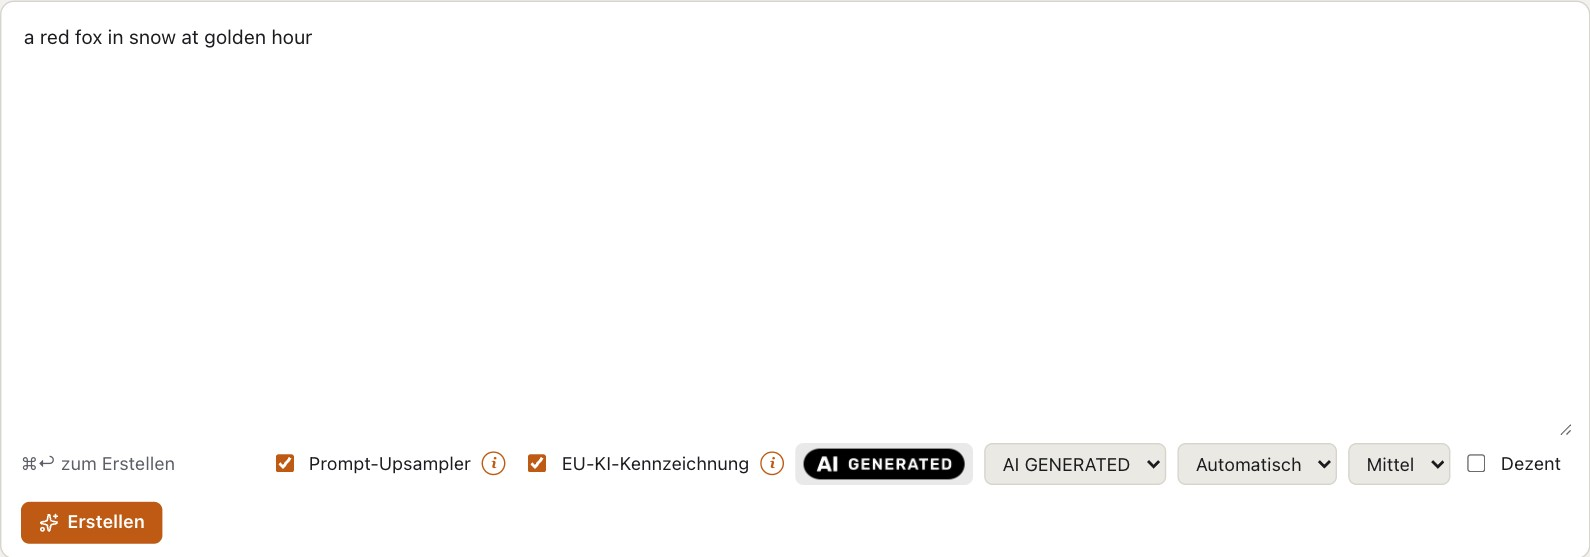
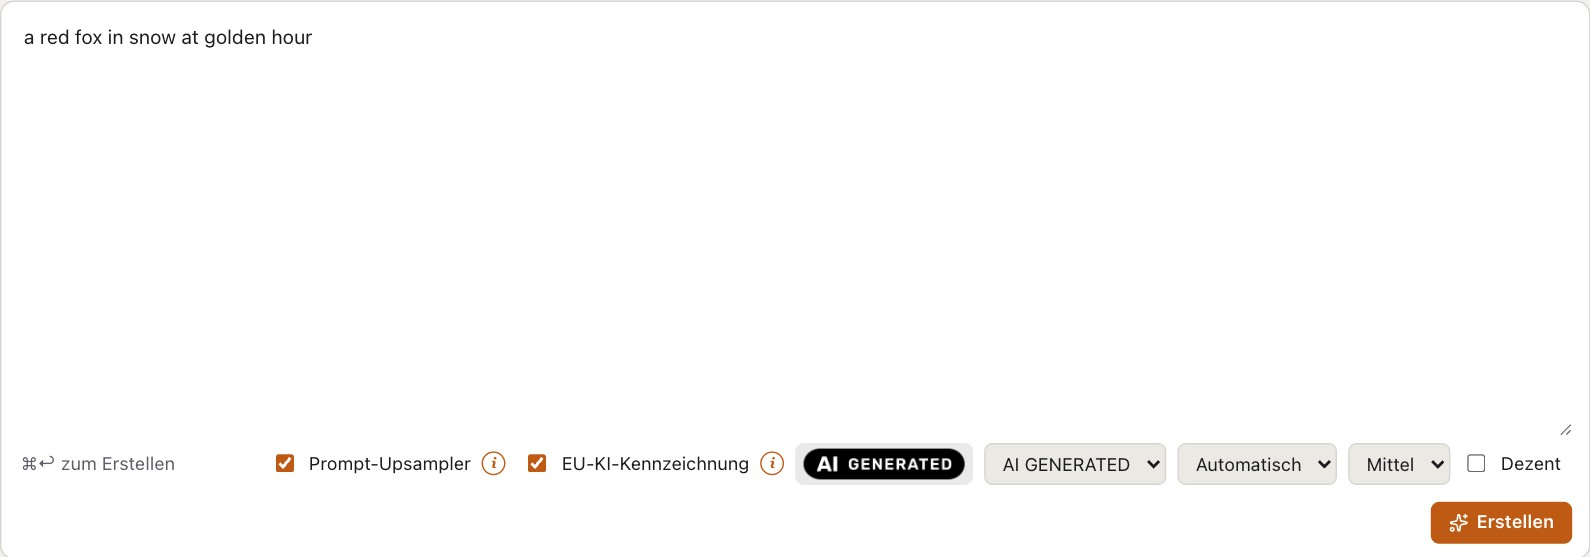
VulKara 0.8.1

Changed region(s): [[0.0, 0.8851, 0.1233, 0.9767], [0.8937, 0.8851, 1.0, 0.9767]]

diff --git a/src/main/menus.ts b/src/main/menus.ts
@@ -1,9 +1,10 @@
 // SPDX-License-Identifier: LicenseRef-PolyForm-Noncommercial-1.0.0
 // Copyright (C) 2026 Oliver Schmidt
 // The app menu beside the Apple menu (About, Settings…, Monitor) and the icon in the menu bar with its own menu. Edit,
-// View and Window come from Electron's roles: without the Edit menu ⌘C and ⌘V stop working in every field.
-// Shared with okAI-helper (LmAI-Studio src/main/menus.ts): the app's own parts come in through MenuHooks; keep both
-// copies of this file the same.
+// View and Window are Electron's role menus written out: without the Edit menu ⌘C and ⌘V stop working in every field.
+// Electron's labels for them are English only; on macOS a role item takes only label and accelerator from us
+// (electronjs.org/docs/latest/tutorial/menus), so the roles keep working under translated labels.
+// okAI-helper has the same menus (LmAI-Studio src/main/menus.ts, texts through its translate() there): change both alike.
 import { app, Menu, nativeImage, Tray, type MenuItemConstructorOptions } from 'electron'
 import { join } from 'node:path'
 
@@ -18,6 +19,13 @@ export interface MenuTexts {
   showAll: string
   quit: string
   open: string
+  /** Edit, View and Window and their entries by role (undo, copy, zoomIn …); missing ones keep Electron's English */
+  edit?: string
+  view?: string
+  window?: string
+  substitutions?: string
+  speech?: string
+  roles?: Partial<Record<string, string>>
 }
 
 export interface MenuHooks {
@@ -28,10 +36,15 @@ export interface MenuHooks {
   openMonitor: () => void
   /** the app's own lines of the menu bar menu (what runs now), built anew at each click */
   status: () => MenuItemConstructorOptions[]
+  /** Reload and the developer tools in the View menu (development only: a reload drops what is typed or painted) */
+  devTools?: boolean
 }
 
 export function appMenuTemplate(h: MenuHooks): MenuItemConstructorOptions[] {
   const t = h.texts()
+  type Role = NonNullable<MenuItemConstructorOptions['role']>
+  const r = (role: Role): MenuItemConstructorOptions => (t.roles?.[role] ? { role, label: t.roles[role] } : { role })
+  const sep: MenuItemConstructorOptions = { type: 'separator' }
   return [
     {
       label: h.name,
@@ -50,9 +63,22 @@ export function appMenuTemplate(h: MenuHooks): MenuItemConstructorOptions[] {
         { label: t.quit, role: 'quit' },
       ],
     },
-    { role: 'editMenu' },
-    { role: 'viewMenu' },
-    { role: 'windowMenu' },
+    // the same entries as Electron's editMenu, viewMenu and windowMenu (lib/browser/api/menu-item-roles.ts, macOS)
+    {
+      role: 'editMenu', label: t.edit ?? 'Edit', submenu: [
+        r('undo'), r('redo'), sep, r('cut'), r('copy'), r('paste'), r('pasteAndMatchStyle'), r('delete'), r('selectAll'), sep,
+        { label: t.substitutions ?? 'Substitutions', submenu: [r('showSubstitutions'), sep, r('toggleSmartQuotes'), r('toggleSmartDashes'), r('toggleTextReplacement')] },
+        { label: t.speech ?? 'Speech', submenu: [r('startSpeaking'), r('stopSpeaking')] },
+      ],
+    },
+    {
+      role: 'viewMenu', label: t.view ?? 'View', submenu: [
+        ...(h.devTools ? [r('reload'), r('forceReload'), r('toggleDevTools'), sep] : []),
+        r('resetZoom'), r('zoomIn'), r('zoomOut'), sep, r('togglefullscreen'),
+      ],
+    },
+    // the role keeps it the Window menu macOS lists the open windows in
+    { role: 'windowMenu', label: t.window ?? 'Window', submenu: [r('minimize'), r('zoom'), sep, r('front')] },
   ]
 }
 

diff --git a/src/main/menus.test.ts b/src/main/menus.test.ts
@@ -25,6 +25,28 @@ describe('menus', () => {
     expect(menu.slice(1).map((m) => m.role)).toEqual(['editMenu', 'viewMenu', 'windowMenu'])
   })
 
+  type Item = { label?: string; role?: string; submenu?: Item[] }
+  const all = (items: Item[]): Item[] => items.flatMap((i) => [i, ...all(i.submenu ?? [])])
+
+  it('labels Edit, View and Window in the app language and keeps their roles (copy and paste stay macOS\'s)', () => {
+    const h = { ...hooks(), texts: () => ({ ...texts, edit: 'Bearbeiten', window: 'Fenster', roles: { copy: 'Kopieren', paste: 'Einsetzen' } }) }
+    const [, edit, , win] = appMenuTemplate(h) as Item[]
+    expect(edit.label).toBe('Bearbeiten')
+    expect(win).toMatchObject({ role: 'windowMenu', label: 'Fenster' })
+    expect(edit.submenu!.find((i) => i.role === 'copy')!.label).toBe('Kopieren')
+    expect(edit.submenu!.find((i) => i.role === 'paste')!.label).toBe('Einsetzen')
+    // a role without a text keeps Electron's own label
+    expect(edit.submenu!.find((i) => i.role === 'undo')!.label).toBeUndefined()
+  })
+
+  it('shows reload and the developer tools only in development', () => {
+    const roles = (devTools: boolean): string[] => all(appMenuTemplate({ ...hooks(), devTools }) as Item[]).map((i) => i.role ?? '')
+    expect(roles(false)).not.toContain('reload')
+    expect(roles(false)).not.toContain('toggleDevTools')
+    expect(roles(false)).toContain('zoomIn')
+    expect(roles(true)).toEqual(expect.arrayContaining(['reload', 'forceReload', 'toggleDevTools']))
+  })
+
   it('opens the settings with ⌘, and the monitor from the app menu, in the app language', () => {
     const h = hooks()
     const items = appMenuTemplate(h)[0].submenu as { label?: string; accelerator?: string; click?: () => void; role?: string }[]

diff --git a/src/main/migrate.ts b/src/main/migrate.ts
@@ -13,14 +13,15 @@ import { processEnv } from './env'
  * now that Chroma runs, for the Chroma checkpoints the first check marked as not runnable; -3: once more, now that
  * Z-Image runs, for the labels of Z-Image LoRAs that said no model can use them.
  */
-export const RECHECK_FLAG = 'loras-rechecked-5'  // 4: sub-bases out of model.json "variant"; 5: FLUX.2 [klein] inpaints
+export const RECHECK_FLAG = 'loras-rechecked-6'  // 4: sub-bases out of model.json "variant"; 5: FLUX.2 [klein] inpaints; 6: advice as negative prompt
 
 /**
  * Once: the installed LoRAs and models are checked again with the current detection (engines/diffusers/recheck.py,
  * run with the Diffusers runtime): a LoRA filed under the wrong family or without its sub-base (FLUX.2 [klein]
  * 4B / 9B), a Chroma checkpoint filed as FLUX.1 (it becomes a Chroma model, its base takes FLUX.1's T5 and VAE over).
  * Each changed manifest is kept as .bak. Without the runtime it
- * waits for a later start; the flag is written only after a run that ended well. Resolves true when it ran.
+ * waits for a later start, as it does for a models or LoRA folder on a drive that is not connected (exit 3); the flag
+ * is written only after a run that ended well. Resolves true when it ran.
  */
 export function recheckLibrary(command: { command: string; args: string[]; env?: Record<string, string> } | undefined,
   env: Record<string, string>, dataDir: string, changed: () => void): Promise<boolean> {

diff --git a/src/main/index.ts b/src/main/index.ts
@@ -16,6 +16,7 @@ import { setMenus } from './menus'
 import { openMonitor } from './monitor_window'
 import { formatDuration } from '@shared/duration'
 import { LOCALES, resolveLang } from '@shared/i18n'
+import { en } from '@shared/i18n/en'
 import { recheckLibrary } from './migrate'
 import { engineCommand } from './runtimes'
 import { handleSchemes, registerSchemes } from './protocols'
@@ -84,9 +85,13 @@ function applyMenus(): void {
       about: t('app.menu.about'), settings: t('app.menu.settings'), monitor: t('app.menu.monitor'),
       services: t('app.menu.services'), hide: t('app.menu.hide'), hideOthers: t('app.menu.hideOthers'),
       showAll: t('app.menu.showAll'), quit: t('app.menu.quit'), open: t('app.menu.open'),
+      edit: t('app.menu.edit'), view: t('app.menu.view'), window: t('app.menu.window'),
+      substitutions: t('app.menu.substitutions'), speech: t('app.menu.speech'),
+      roles: Object.fromEntries(Object.keys(en.app.menu.roles).map((r) => [r, t(`app.menu.roles.${r as keyof typeof en.app.menu.roles}`)])),
     }),
     showMain,
     openMonitor,
+    devTools: !app.isPackaged,
     status: () => {
       const q = queueStatus()
       const run = q.running

diff --git a/src/shared/i18n/en/app.ts b/src/shared/i18n/en/app.ts
@@ -16,6 +16,38 @@ export default {
     runningEta: '{model} · {progress} % · {eta} left',
     waiting: '{n} waiting',
     remoteOn: 'Remote access on: Quit ends it',
+    edit: 'Edit',
+    view: 'View',
+    window: 'Window',
+    substitutions: 'Substitutions',
+    speech: 'Speech',
+    // by Electron role (src/main/menus.ts)
+    roles: {
+      undo: 'Undo',
+      redo: 'Redo',
+      cut: 'Cut',
+      copy: 'Copy',
+      paste: 'Paste',
+      pasteAndMatchStyle: 'Paste and Match Style',
+      delete: 'Delete',
+      selectAll: 'Select All',
+      showSubstitutions: 'Show Substitutions',
+      toggleSmartQuotes: 'Smart Quotes',
+      toggleSmartDashes: 'Smart Dashes',
+      toggleTextReplacement: 'Text Replacement',
+      startSpeaking: 'Start Speaking',
+      stopSpeaking: 'Stop Speaking',
+      reload: 'Reload',
+      forceReload: 'Force Reload',
+      toggleDevTools: 'Toggle Developer Tools',
+      resetZoom: 'Actual Size',
+      zoomIn: 'Zoom In',
+      zoomOut: 'Zoom Out',
+      togglefullscreen: 'Full Screen',
+      minimize: 'Minimize',
+      zoom: 'Zoom',
+      front: 'Bring All to Front',
+    },
   },
   monitor: {
     title: 'Monitor',

diff --git a/src/renderer/src/pages/GeneratePage.vue b/src/renderer/src/pages/GeneratePage.vue
@@ -732,6 +732,11 @@ input[type='range'] {
   flex: 1;
 }
 
+/* wrapped onto a line of its own (longer languages), the button still stands on the right */
+.send > .btn.primary {
+  margin-left: auto;
+}
+
 .ai-label {
   display: flex;
   flex-wrap: wrap;

diff --git a/engines/diffusers/tests/test_maker_settings.py b/engines/diffusers/tests/test_maker_settings.py
@@ -1,7 +1,10 @@
 # SPDX-License-Identifier: LicenseRef-PolyForm-Noncommercial-1.0.0
 # Copyright (C) 2026 Oliver Schmidt
 """The settings a model's maker recommends, read from the model card."""
+import json
+
 import maker_settings as ms
+import recheck
 
 REALVIS = """<b>Recommended Negative Prompt:</b><br>
 (octane render, render, drawing, anime, bad photo, bad photography:1.3), (worst quality, low quality, blurry:1.2), (bad teeth, deformed teeth, deformed lips), morbid<br>
@@ -70,6 +73,42 @@ def test_the_first_sampler_named_and_a_scheduler_line():
 def test_code_example_and_quoted_negative():
     card = 'Negative prompt: "worst quality, low quality"\n```py\nimage = pipe(prompt, num_inference_steps=50, guidance_scale=3.5).images[0]\n```'
     assert ms.parse(card) == {"negative_prompt": "worst quality, low quality", "num_steps": 50, "guidance_scale": 3.5}
+
+
+def test_advice_after_negative_is_no_prompt():
+    # Juggernaut XL's card (Civitai 133005), word for word: the maker says to start without one
+    card = "Sampler: DPM++ 2M SDE\nSteps: 30-40\nNegative: Start with no negative, and add afterwards the Stuff you don´t wanna see in that image."
+    assert "negative_prompt" not in ms.parse(card)
+    assert "negative_prompt" not in ms.parse("Negative prompt: none")
+    assert ms.parse("Negative: blurry, lowres, watermark")["negative_prompt"] == "blurry, lowres, watermark"
+    # words of a real negative prompt are no advice
+    for neg in ("bad hands, dont-care", "ugly, your face", "blurry, start with a frame", "none of the above, lowres"):
+        assert not ms.is_advice(neg), neg
+    assert ms.is_advice("None.") and ms.is_advice("Not needed") and ms.is_advice("I don't use one")
+
+
+def test_recheck_waits_for_a_drive_that_is_not_connected(tmp_path):
+    assert recheck.main(["--models", "/Volumes/vk-not-connected-drive/models", "--loras", str(tmp_path)]) == 3
+    # a folder that is simply not there (no models yet) is nothing to wait for
+    assert recheck.main(["--models", str(tmp_path / "none"), "--loras", str(tmp_path)]) == 0
+
+
+def test_recheck_takes_advice_read_before_out_of_an_installed_model(tmp_path):
+    advice = "Start with no negative, and add afterwards the Stuff you don\u00b4t wanna see in that image."
+    folder = tmp_path / "models" / "juggernaut"
+    folder.mkdir(parents=True)
+    (folder / "model.json").write_text(json.dumps({
+        "name": "Juggernaut-XL-v7", "maker": {"num_steps": 35, "negative_prompt": advice, "source": "civitai description"},
+        "defaults": {"num_steps": 35, "guidance_scale": 4.5, "negative_prompt": advice}}))
+    report = recheck.recheck(str(tmp_path / "models"), None, apply=True)
+    assert [r["name"] for r in report] == ["Juggernaut-XL-v7"]
+    m = json.loads((folder / "model.json").read_text())
+    assert m["maker"] == {"num_steps": 35, "source": "civitai description"}
+    assert m["defaults"] == {"num_steps": 35, "guidance_scale": 4.5}
+    assert (folder / "model.json.bak").exists()
+    assert recheck.recheck(str(tmp_path / "models"), None) == []  # once only
+    # a real negative prompt stays
+    assert recheck.model_changes(str(folder), {"maker": {"negative_prompt": "blurry, lowres"}}) == {}
 
 
 def test_the_samplers_the_maker_names_become_the_allow_list():

diff --git a/engines/diffusers/recheck.py b/engines/diffusers/recheck.py
@@ -4,7 +4,8 @@
 is_chroma): a LoRA filed under the wrong family (a kohya FLUX.1 LoRA taken for SDXL, a Qwen-Image 2.1 LoRA for
 Qwen-Image …), a missing sub-base (FLUX.2 [klein] 4B / 9B), a Chroma checkpoint filed as FLUX.1 [schnell] or marked
 as not runnable before Chroma was supported (it becomes a Chroma model; its base takes FLUX.1's T5 and VAE over), the
-label of a LoRA whose family became runnable (Z-Image) that still says no model can use it.
+label of a LoRA whose family became runnable (Z-Image) that still says no model can use it, a maker's advice kept as
+the negative prompt (Juggernaut XL).
 
     python main.py recheck_loras            prints what would change (one JSON line each)
     python main.py recheck_loras --apply    changes it; each changed manifest is kept as <manifest>.bak
@@ -18,6 +19,7 @@ import os
 import shutil
 import sys
 
+import maker_settings
 import paths
 import registry
 
@@ -105,9 +107,23 @@ def chroma_manifest(folder, m, ram_gb=None):
             "img2img": True, "inpaint": True, "inpaint_only": False, "runtime": "diffusers", "kind": "image"}
 
 
+def _advice_negative(m):
+    """A negative prompt read before maker_settings knew advice from a prompt (Juggernaut XL's "Start with no
+    negative, …"): out of the maker's settings, and out of the defaults while it is still the maker's."""
+    maker = m.get("maker") or {}
+    neg = maker.get("negative_prompt")
+    if not isinstance(neg, str) or not maker_settings.is_advice(neg):
+        return {}
+    out = {"maker": (maker, {k: v for k, v in maker.items() if k != "negative_prompt"})}
+    defaults = m.get("defaults") or {}
+    if defaults.get("negative_prompt") == neg:
+        out["defaults"] = (defaults, {k: v for k, v in defaults.items() if k != "negative_prompt"})
+    return out
+
+
 def model_changes(folder, m, ram_gb=None):
     """{field: (old, new)} for a model."""
-    out = {}
+    out = _advice_negative(m)
     arch = m.get("arch")
     single = m.get("layout") == "single_denoiser" and m.get("file")
     # a Chroma checkpoint imported as FLUX.1, or marked as not runnable when Chroma was not supported yet
@@ -220,6 +236,11 @@ def recheck(models_dir, loras_dir, apply=False, ram_gb=None):
     return report
 
 
+def _volume_missing(path):
+    parts = os.path.abspath(path).split(os.sep)
+    return len(parts) > 2 and parts[1] == "Volumes" and not os.path.isdir(os.sep.join(parts[:3]))
+
+
 def main(argv):
     p = argparse.ArgumentParser(prog="recheck_loras")
     p.add_argument("--apply", action="store_true", help="write the changes (each manifest kept as .bak)")
@@ -228,6 +249,11 @@ def main(argv):
     a = p.parse_args(argv)
     models = a.models or str(paths.models_dir())
     loras = a.loras or str(paths.loras_dir())
+    # a folder on a drive that is not connected: try again at the next start (the app writes its flag only after exit 0)
+    unplugged = [d for d in (models, loras) if not os.path.isdir(d) and _volume_missing(d)]
+    if unplugged:
+        print("not connected: %s" % ", ".join(unplugged), file=sys.stderr)
+        return 3
     report = recheck(models, loras, apply=a.apply)
     for item in report:
         print(json.dumps(item, ensure_ascii=False))

diff --git a/engines/diffusers/maker_settings.py b/engines/diffusers/maker_settings.py
@@ -116,11 +116,23 @@ def _sampler(t):
     return sampler, (None if sampler in NO_SCHEDULE else schedule), allowed
 
 
+# advice, not a prompt: "Start with no negative, and add afterwards the Stuff you don't wanna see" (Juggernaut XL).
+# Whole phrases only: a real negative prompt may hold "you", "dont" or "start with" and must stay
+ADVICE = re.compile(r"(?i)^\s*(?:none|n/?a|-)\s*\.?\s*$|\bno negative|\bstart with(?:out| no)\b|\bnot needed\b"
+                    r"|\bleave (?:it )?empty\b|\bdon[\u2019\u00b4'`]t (?:wan(?:na|t)|need|use)\b")
+
+
+def is_advice(text):
+    return bool(ADVICE.search(text or ""))
+
+
 def _negative(t):
     m = re.search(r"(?i)negative(?: prompt)?\s*[:=]\s*\n?\s*([^\n]{3,600})", t)
     if not m:
         return None
     neg = m.group(1).strip().strip('"\u201c\u201d\'')
+    if is_advice(neg):
+        return None
     # A1111 weights "(word:1.3)" and brackets mean nothing to the engines: the words stay
     neg = re.sub(r"\(([^():]+):\s*\d+(?:\.\d+)?\)", r"\1", neg)
     neg = re.sub(r"[()\[\]]", "", neg)

diff --git a/CHANGELOG.md b/CHANGELOG.md
@@ -1,5 +1,17 @@
 # Changelog
 
+## 0.8.1 – 2026-11-10
+
+- **Fixed:** a model card that only gives advice after "Negative:" no longer becomes the negative prompt (Juggernaut
+  XL: "Start with no negative, and add afterwards the Stuff you don´t wanna see"); Model defaults left it in the field.
+  Installed models lose it once at the first start after the update, while it is still the maker's (the manifest
+  before is kept as `model.json.bak`; models on a drive that is not connected are cleaned at a later start). A
+  negative prompt already in the field stays until Model defaults is clicked again. On Text to image and the other pages the Generate
+  button stays on the right when the row under the prompt wraps (longer languages).
+- **The Edit, View and Window menus in the app's language.** Electron's own labels for them are English only; the
+  entries keep their roles, so copy, paste and the shortcuts work as before. The View menu of the released app no
+  longer offers Reload (it dropped what was typed or painted) and the developer tools; zoom and full screen stay.
+
 ## 0.8.0 – 2026-11-09
 
 - **App menu, menu bar icon and Monitor.** VulKara has its own app menu in five languages (Settings… with ⌘, ,

diff --git a/docs/DEVELOPMENT.md b/docs/DEVELOPMENT.md
@@ -418,7 +418,8 @@ what would change.
   `HF_HUB_DISABLE_IMPLICIT_TOKEN`, `DO_NOT_TRACK`, …). Never spread `process.env` into a spawn.
 - Compiled Python goes to `<data>/pycache` (`PYTHONPYCACHEPREFIX`), never into the signed app.
 - Development overrides (`ELECTRON_RENDERER_URL`, `VK_ENGINES_DIR`, `VK_DEV_PYTHON`) count only when
-  `!app.isPackaged`. The packaged app has no developer tools, the fuses of `electron-builder.config.cjs` (no
+  `!app.isPackaged`. The packaged app has no developer tools (nor Reload and Toggle Developer Tools in the View menu,
+  `devTools` of `src/main/menus.ts`), the fuses of `electron-builder.config.cjs` (no
   RunAsNode, no `NODE_OPTIONS`, no inspector, asar integrity) and a CSP without `ws://` (the vite plugin `vk-csp`).
 - Helper models from third-party repositories are pinned: commit and SHA-256 in `content_check.PINNED`,
   `restore.LAMA_PIN` / `COLOR_PIN`, `photo_tools.json` and `helper_pins.json` (ControlNets, DWPose, Depth Anything,
